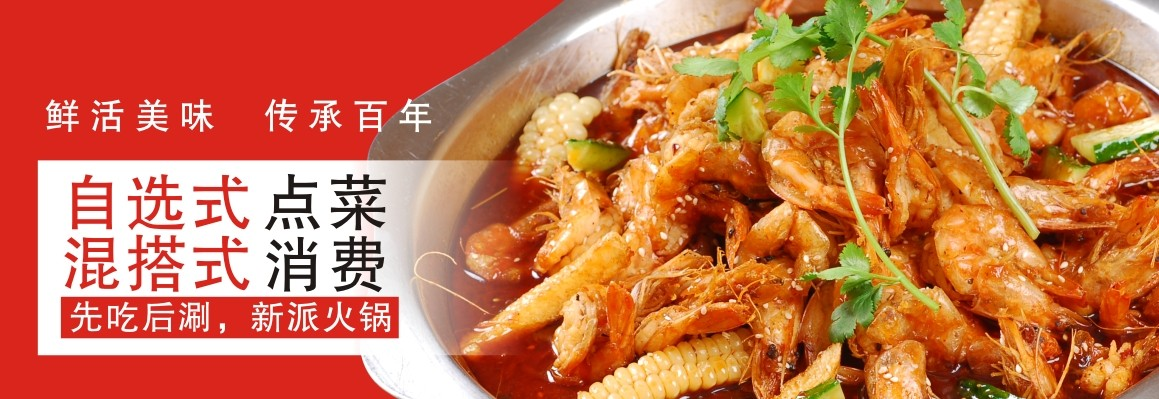
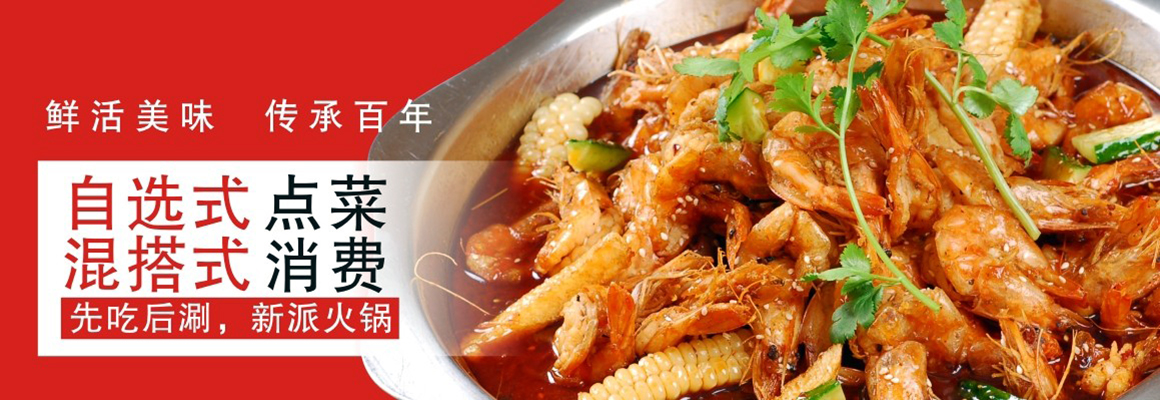
修改图片大小，以及修改连接

diff --git a/index.js b/index.js
@@ -10,6 +10,9 @@ define(function(require) {
 			"pageMappings" : {
 				"main" : {
 					url : require.toUrl('./main.w')
+				},
+				"dc" : {
+					url : require.toUrl('./dc/dc.w')
 				}
 			}
 		})
